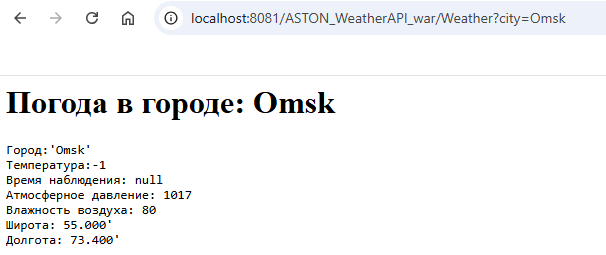
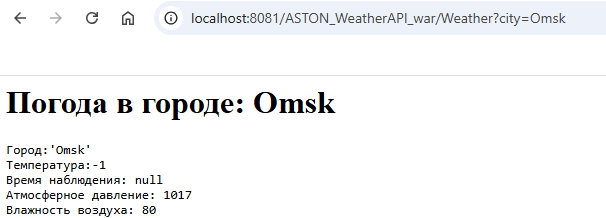
JDBC task done, commit before tests

diff --git a/src/main/java/model/database/WeatherInfoDAO.java b/src/main/java/model/database/WeatherInfoDAO.java
@@ -1,0 +1,127 @@
+package model.database;
+
+import model.weather.Weather;
+
+import java.sql.Connection;
+import java.sql.PreparedStatement;
+import java.sql.ResultSet;
+import java.sql.SQLException;
+import java.util.ArrayList;
+import java.util.List;
+
+public class WeatherInfoDAO {
+
+    public void addCity(String city) throws SQLException {
+        String query = "INSERT INTO weather_app.cities (name) VALUES (?) ON CONFLICT (name) DO NOTHING";
+
+        try (Connection connection = DatabaseConnection.getConnection();) {
+            PreparedStatement preparedStatement = connection.prepareStatement(query);
+            preparedStatement.setString(1, city);
+            preparedStatement.executeUpdate();
+        }
+    }
+
+    public int getCityId (String city) throws SQLException {
+        String query = "SELECT id FROM weather_app.cities WHERE name = ?";
+
+        try (Connection connection = DatabaseConnection.getConnection();) {
+            PreparedStatement preparedStatement = connection.prepareStatement(query);
+            preparedStatement.setString(1, city);
+            ResultSet resultSet = preparedStatement.executeQuery();
+
+            if (resultSet.next()) {
+                return resultSet.getInt("id");
+            } else {
+                return -1;
+            }
+        }
+    }
+
+    public void deleteCity(int cityId) throws SQLException {
+        String query = "DELETE FROM weather_app.cities WHERE id = ?";
+
+        try (Connection connection = DatabaseConnection.getConnection();) {
+            PreparedStatement preparedStatement = connection.prepareStatement(query);
+            preparedStatement.setInt(1, cityId);
+            preparedStatement.executeUpdate();
+        }
+    }
+
+    public List<String> getAllCities () throws SQLException {
+        List<String> cities = new ArrayList<>();
+        String query = "SELECT * FROM weather_app.cities";
+
+        try (Connection connection = DatabaseConnection.getConnection()) {
+            PreparedStatement preparedStatement = connection.prepareStatement(query);
+            ResultSet resultSet = preparedStatement.executeQuery();
+
+            while (resultSet.next()) {
+                cities.add(resultSet.getString("name"));
+            }
+        }
+        return cities;
+    }
+
+    public void logRequest (int cityId) throws SQLException {
+        String query = "INSERT INTO weather_app.request_history (city_id) VALUES (?)";
+
+        try (Connection connection = DatabaseConnection.getConnection();) {
+            PreparedStatement preparedStatement = connection.prepareStatement(query);
+            preparedStatement.setInt(1, cityId);
+            preparedStatement.executeUpdate();
+        }
+    }
+
+    public List<String> getRequestHistory () throws SQLException {
+        List<String> requestHistory = new ArrayList<>();
+        String query = "SELECT * FROM weather_app.request_history";
+
+        try (Connection connection = DatabaseConnection.getConnection()) {
+            PreparedStatement preparedStatement = connection.prepareStatement(query);
+            ResultSet resultSet = preparedStatement.executeQuery();
+
+            while (resultSet.next()) {
+                String record = "ID: " + resultSet.getInt("id") +
+                                ", cityId: " + resultSet.getInt("city_id") +
+                                ", Time: " + resultSet.getTimestamp("request_time");
+
+                requestHistory.add(record);
+            }
+        }
+        return requestHistory;
+    }
+
+    public void saveWeatherData(int cityId, Weather weather) throws SQLException {
+        String query = "INSERT INTO weather_app.weather_data (city_id, temperature, pressure) " +
+                "VALUES (?, ?, ?)";
+
+        try (Connection connection = DatabaseConnection.getConnection();) {
+            PreparedStatement preparedStatement = connection.prepareStatement(query);
+            preparedStatement.setInt(1, cityId);
+            preparedStatement.setInt(2,weather.getCurrent().getTemperature());
+            preparedStatement.setInt(3,weather.getCurrent().getPressure());
+            preparedStatement.executeUpdate();
+        }
+    }
+
+    public void addCityWithWeatherDataAndLog(String city, Weather weather) throws SQLException {
+        Connection connection = DatabaseConnection.getConnection();
+        try {
+            connection.setAutoCommit(false);
+            addCity(city);
+
+            int cityId = getCityId(city);
+
+            saveWeatherData(cityId, weather);
+            logRequest(cityId);
+            connection.commit();
+        } catch (SQLException e) {
+            connection.rollback();
+            throw e;
+        } finally {
+            connection.setAutoCommit(true);
+        }
+    }
+}
+
+

diff --git a/src/main/java/controller/WeatherServlet.java b/src/main/java/controller/WeatherServlet.java
@@ -5,11 +5,14 @@ import jakarta.servlet.annotation.WebServlet;
 import jakarta.servlet.http.HttpServlet;
 import jakarta.servlet.http.HttpServletRequest;
 import jakarta.servlet.http.HttpServletResponse;
+import model.database.WeatherInfoDAO;
+
 import java.io.IOException;
 
 @WebServlet("/weather")
 public class WeatherServlet extends HttpServlet {
     private WeatherService weatherService = new WeatherService();
+    private WeatherInfoDAO weatherInfoDAO = new WeatherInfoDAO();
 
     @Override
     protected void doGet(HttpServletRequest req, HttpServletResponse resp) throws IOException {
@@ -20,6 +23,14 @@ public class WeatherServlet extends HttpServlet {
 
         try {
             String weatherInfo = weatherService.get(city);
+            int cityId = weatherInfoDAO.getCityId(city);
+
+            if (cityId != -1) {
+                weatherInfoDAO.addCity(city);
+                cityId = weatherInfoDAO.getCityId(city);
+            }
+            weatherInfoDAO.logRequest(cityId);
+
 
             resp.setContentType("text/html; charset=UTF-8");
             resp.getWriter().write("<html><body>");
@@ -30,6 +41,7 @@ public class WeatherServlet extends HttpServlet {
         } catch (Exception e) {
             resp.setStatus(HttpServletResponse.SC_INTERNAL_SERVER_ERROR);
             resp.getWriter().write("{Something went wrong}");
+            e.printStackTrace();
         }
     }
 }

diff --git a/src/main/java/model/Connection.java b/src/main/java/model/Connection.java
@@ -1,16 +1,33 @@
 package model;
 
+import model.database.DatabaseConnection;
+
+import java.io.IOException;
+import java.io.InputStream;
 import java.net.URL;
 import java.net.URLConnection;
+import java.util.Properties;
 import java.util.Scanner;
 
 public class Connection {
-    private static final String apiKey = "спроси меня apiKey!";
+    private static final Properties properties = new Properties();
+
+    static {
+        try (InputStream input = DatabaseConnection.class.getClassLoader().getResourceAsStream("api.properties")) {
+            if (input == null) {
+                System.out.println("Конфигурационный файл не найден");
+            }
+            properties.load(input);
+
+        } catch (IOException e) {
+            e.printStackTrace();
+        }
+    }
 
     public String getJSON(String city) throws Exception {
         StringBuilder stringBuilder = new StringBuilder();
 
-        URL url = new URL("http://api.weatherstack.com/current?access_key=" + apiKey + "&query=" + city);
+        URL url = new URL("http://api.weatherstack.com/current?access_key=" + properties.getProperty("key") + "&query=" + city);
         URLConnection connection = url.openConnection();
         Scanner scanner = new Scanner(connection.getInputStream());
         while (scanner.hasNext()) {

diff --git a/src/main/java/model/WeatherService.java b/src/main/java/model/WeatherService.java
@@ -1,16 +1,19 @@
 package model;
 
+import model.database.WeatherInfoDAO;
 import model.weather.Weather;
 
 public class WeatherService implements Service {
-    private Connection connection;
-    private JsonFormatter jsonFormatter;
     private static final String EMPTY_ERROR = "Вы не ввели город";
     private static final String CITY_ERROR = "Неверное название города";
+    private Connection connection;
+    private JsonFormatter jsonFormatter;
+    private WeatherInfoDAO weatherInfoDAO;
 
     public WeatherService() {
         connection = new Connection();
         jsonFormatter = new JsonFormatter();
+        weatherInfoDAO = new WeatherInfoDAO();
     }
 
     @Override
@@ -23,6 +26,7 @@ public class WeatherService implements Service {
             String info = connection.getJSON(city);
             Weather weather = jsonFormatter.parse(info);
             String answer = weather.toString();
+            weatherInfoDAO.addCityWithWeatherDataAndLog(city, weather);
 
             return answer;
         } catch (NullPointerException e) {

diff --git a/src/main/java/model/database/DatabaseConnection.java b/src/main/java/model/database/DatabaseConnection.java
@@ -1,0 +1,32 @@
+package model.database;
+
+import java.io.IOException;
+import java.io.InputStream;
+import java.sql.Connection;
+import java.sql.DriverManager;
+import java.sql.SQLException;
+import java.util.Properties;
+
+public class DatabaseConnection {
+    private static final Properties properties = new Properties();
+
+    static {
+        try (InputStream input = DatabaseConnection.class.getClassLoader().getResourceAsStream("database.cfg.properties")) {
+            if (input == null) {
+                System.out.println("Конфигурационный файл не найден");
+            }
+            properties.load(input);
+
+        } catch (IOException e) {
+            e.printStackTrace();
+        }
+    }
+
+    public static Connection getConnection() throws SQLException {
+        return DriverManager.getConnection(
+                properties.getProperty("url"),
+                properties.getProperty("username"),
+                properties.getProperty("password")
+        );
+    }
+}

diff --git a/src/main/java/model/weather/Weather.java b/src/main/java/model/weather/Weather.java
@@ -22,11 +22,9 @@ public class Weather {
 
     @Override
     public String toString() {
-        return "Город:'" + location.getName() + '\'' + '\n' +
+        return "Город:'" + location.getName() + '\n' +
                "Температура:" + current.getTemperature() + " градусов (по Цельсию)" + '\n' +
                "Атмосферное давление: " + current.getPressure() +" мм. ртутного столба"+ '\n' +
-               "Влажность воздуха: " + current.getHumidity() + " % "+ '\n' +
-               "Широта: " + location.getLat() + '\'' + '\n' +
-               "Долгота: " + location.getLon() + '\'';
+               "Влажность воздуха: " + current.getHumidity() + " % ";
     }
 }

diff --git a/src/test/java/model/database/DatabaseConnectionTest.java b/src/test/java/model/database/DatabaseConnectionTest.java
@@ -1,0 +1,14 @@
+package model.database;
+
+import java.sql.Connection;
+
+public class DatabaseConnectionTest {
+
+    public static void main(String[] args) {
+        try (Connection connection = DatabaseConnection.getConnection()) {
+            System.out.println("Успешное подключение к БД!");
+        } catch (Exception e) {
+            e.printStackTrace();
+        }
+    }
+}

diff --git a/src/test/java/model/database/WeatherInfoDAOTest.java b/src/test/java/model/database/WeatherInfoDAOTest.java
@@ -1,0 +1,6 @@
+package model.database;
+
+public class WeatherInfoDAOTest {
+    public static void main(String[] args) {
+    }
+}
